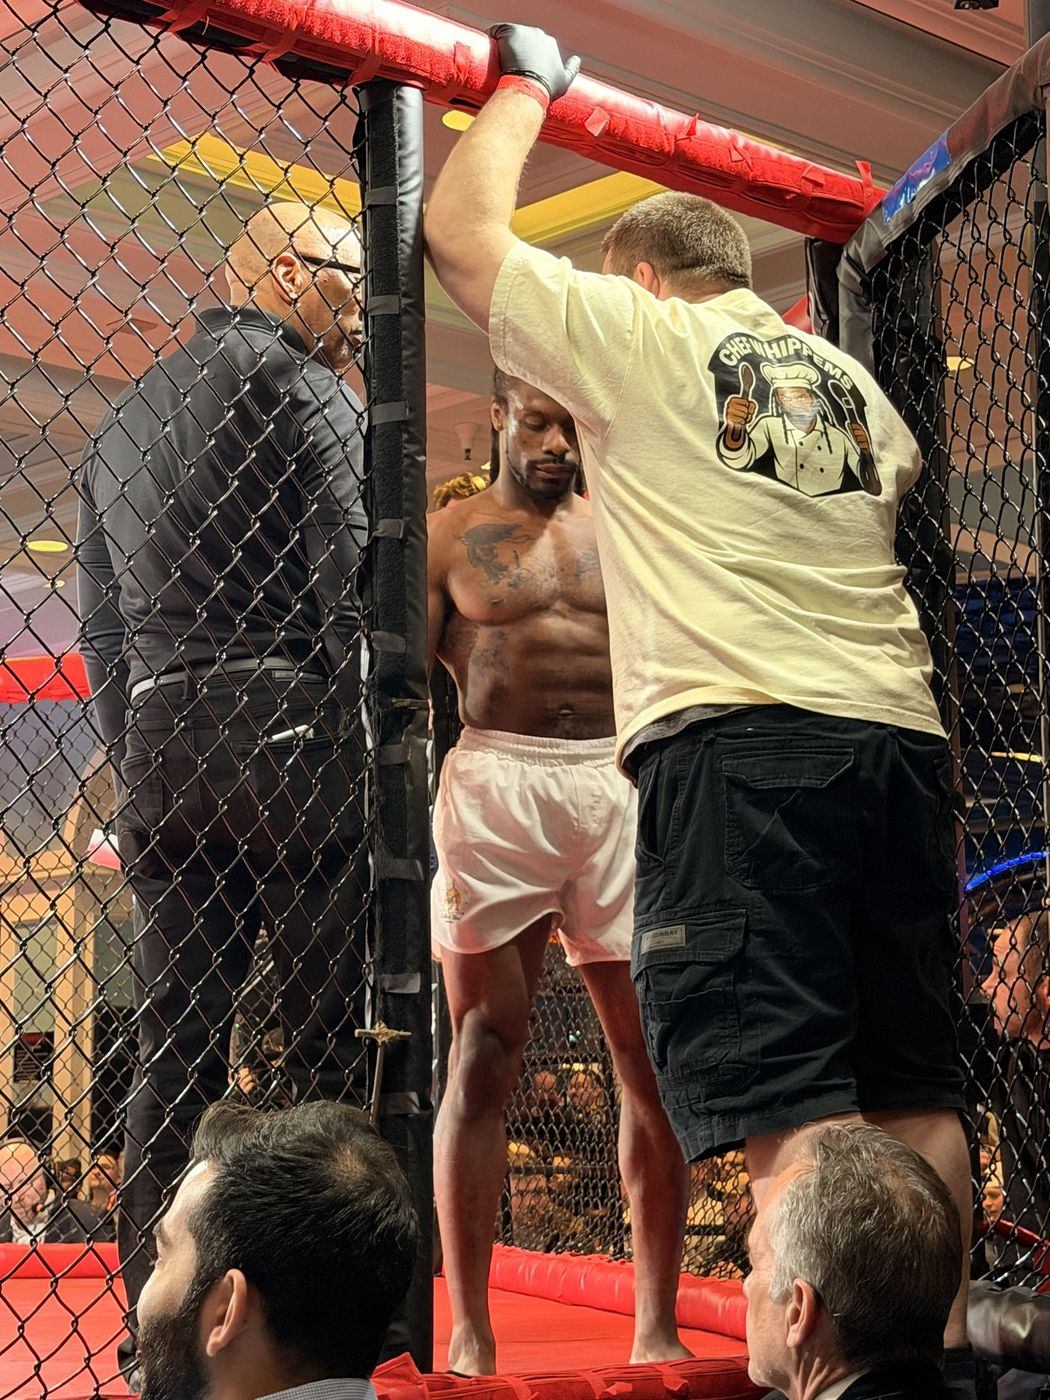
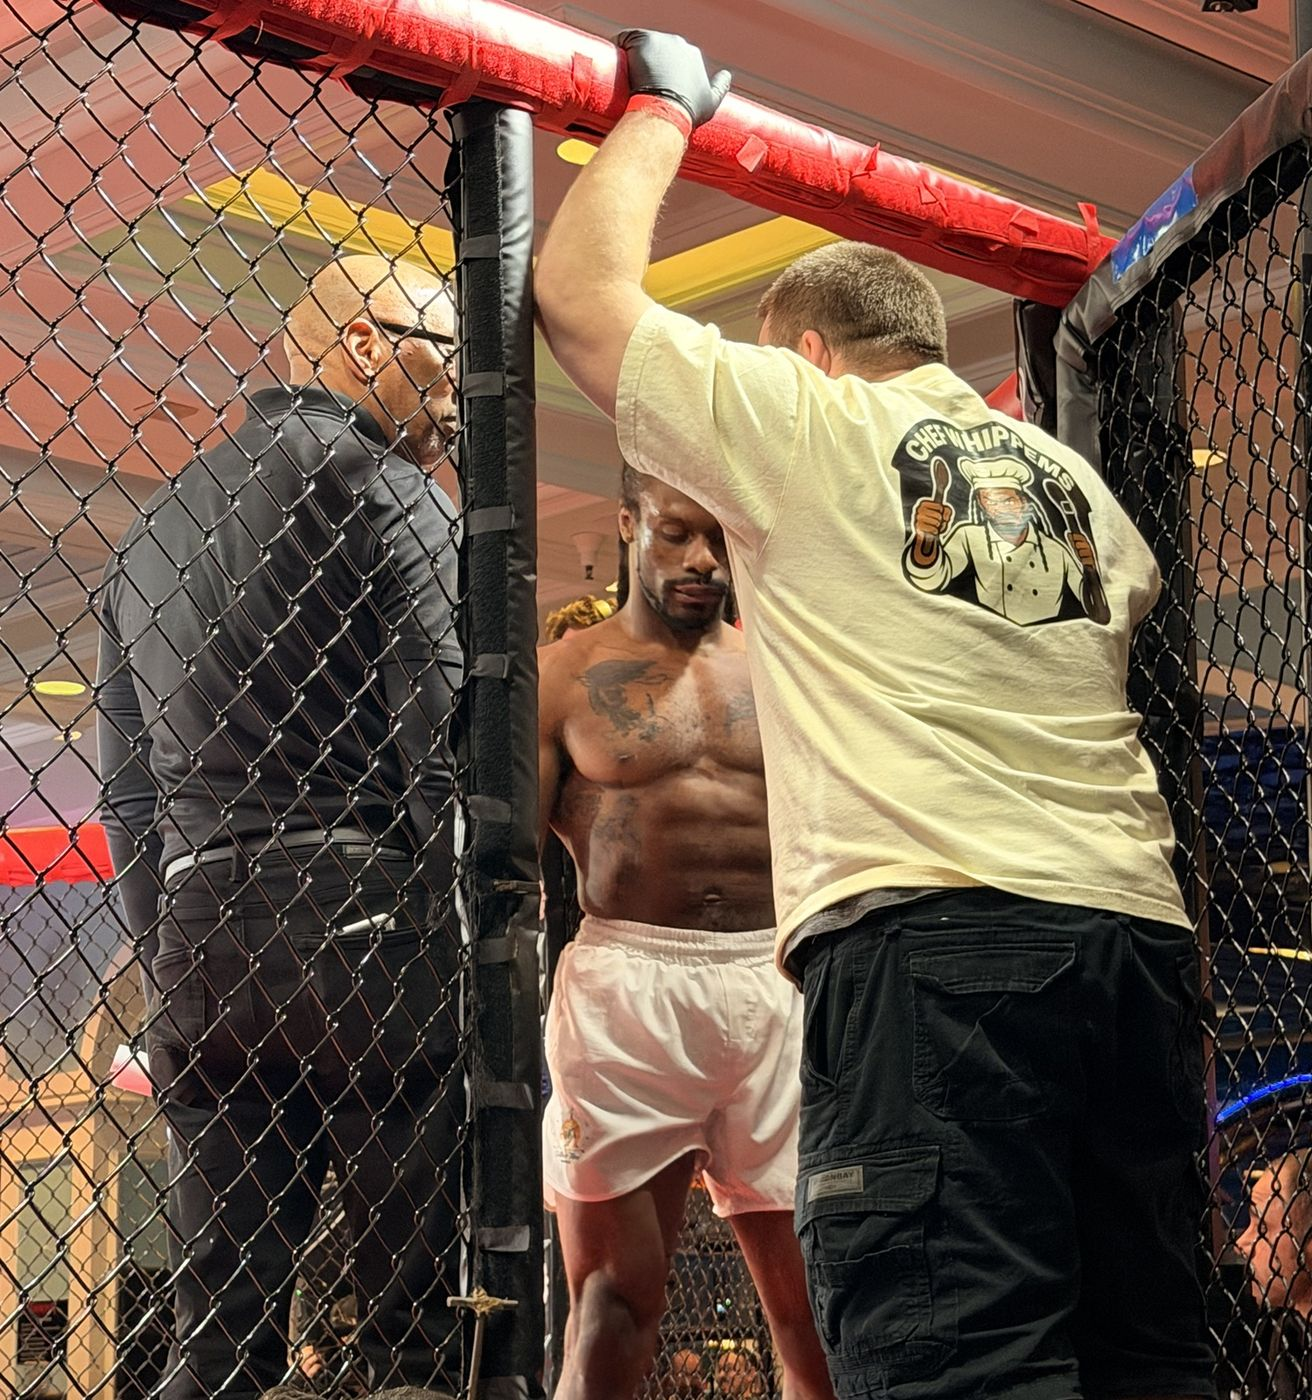
Swap out cluttered photos for cleaner ones
- Removed: training collages, near-duplicate Asbury group shots, the
  near-empty Bayshore BJJ room, the blurry ground shot, a busy mat-edge photo
- Cropped judges' heads out of the cage shots (jab, walkout, corner)
- Home: coaching card uses the portrait; gallery uses the walkout and jab
- Contact header uses the portrait
- Galleries rebalanced so rows fill evenly on desktop and phone

Claude-Session: https://claude.ai/code/session_01AhR64rMRYtrBX3jckZMrQx

diff --git a/fights.html b/fights.html
@@ -90,9 +90,8 @@
           <div class="gallery g3">
             <figure><img src="img/fight/ds67-weighin-faceoff.jpg" alt="Weigh-in face-off at Dead Serious 67" loading="lazy"></figure>
             <figure><img src="img/fight/ds67-poster-signing.jpg" alt="Signing Dead Serious 67 fight posters" loading="lazy"></figure>
+            <figure class="wide"><img src="img/fight/ds67-jab.jpg" alt="Throwing a jab in the cage" loading="lazy"></figure>
             <figure><img src="img/fight/ds67-walkout.jpg" alt="In the cage before the fight" loading="lazy"></figure>
-            <figure><img src="img/fight/ds67-jab.jpg" alt="Throwing a jab in the cage" loading="lazy"></figure>
-            <figure><img src="img/fight/ds67-ground.jpg" alt="Working on the ground in Chef Whippems fight shorts" loading="lazy"></figure>
             <figure><img src="img/fight/ds67-corner-chef-whippems.jpg" alt="Between rounds with the corner, cornerman in a Chef Whippems shirt" loading="lazy"></figure>
           </div>
         </div>
@@ -108,14 +107,12 @@
       </div>
       <div class="gallery reveal">
         <figure class="wide"><img src="img/wrestle-3.jpg" alt="Wrestling match, working from top" loading="lazy"></figure>
-        <figure><img src="img/asbury-1.jpg" alt="Team photo at Asbury Park" loading="lazy"></figure>
-        <figure><img src="img/bayshore-bjj.jpg" alt="Bayshore BJJ mats" loading="lazy"></figure>
-        <figure class="wide"><img src="img/wrestle-5.jpg" alt="Wrestling match, hand fighting in the center" loading="lazy"></figure>
         <figure><img src="img/asbury-3.jpg" alt="Training partners at Asbury Park" loading="lazy"></figure>
-        <figure><img src="img/wrestle-2.jpg" alt="Waiting on the mat edge before a match" loading="lazy"></figure>
         <figure><img src="img/fight/gtg-training-partner.jpg" alt="After training at GTG Gym" loading="lazy"></figure>
+        <figure class="wide"><img src="img/wrestle-5.jpg" alt="Wrestling match, hand fighting in the center" loading="lazy"></figure>
+        <figure class="wide"><img src="img/wrestle-4.jpg" alt="Wrestling match, driving through a takedown" loading="lazy"></figure>
         <figure class="wide"><img src="img/wrestle-1.jpg" alt="Flexing in a wrestling singlet" loading="lazy"></figure>
-        <figure><img src="img/wrestle-6.jpg" alt="Wrestling match, scramble on the mat" loading="lazy"></figure>
+        <figure class="wide"><img src="img/wrestle-6.jpg" alt="Wrestling match, scramble on the mat" loading="lazy"></figure>
       </div>
     </div>
   </section>

diff --git a/index.html b/index.html
@@ -57,7 +57,7 @@
       </div>
       <div class="services reveal">
         <a class="service" href="coaching.html">
-          <img src="img/train-collage-1.jpg" alt="" loading="lazy">
+          <img src="img/portrait.jpg" alt="" loading="lazy" style="object-position:50% 30%">
           <div><span class="eyebrow">Fitness</span><h3 style="font-size:2rem">Online coaching</h3>
             <p>Personalized strength, conditioning and nutrition with weekly check-ins.</p><span class="btn small">See coaching</span></div>
         </a>
@@ -144,10 +144,9 @@
       </div>
       <div class="gallery reveal">
         <figure class="wide"><img src="img/train-floor.jpg" alt="Training on the gym floor" loading="lazy"></figure>
-        <figure><img src="img/train-collage-1.jpg" alt="Gym training sequence" loading="lazy"></figure>
         <figure><img src="img/red-room-1.jpg" alt="Recovery session" loading="lazy"></figure>
         <figure><img src="img/fight/ds67-walkout.jpg" alt="In the cage at Dead Serious 67" loading="lazy"></figure>
-        <figure><img src="img/train-collage-2.jpg" alt="Gym training sequence" loading="lazy"></figure>
+        <figure class="wide"><img src="img/fight/ds67-jab.jpg" alt="Throwing a jab at Dead Serious 67" loading="lazy"></figure>
         <figure class="wide"><img src="img/wrestle-4.jpg" alt="Wrestling match" loading="lazy"></figure>
       </div>
     </div>

diff --git a/assets/site.css b/assets/site.css
@@ -310,3 +310,4 @@ body.locked{overflow:hidden}
 .gallery.g3{grid-template-columns:repeat(3,1fr)}
 @media (max-width:900px){.gallery.g5{grid-template-columns:repeat(3,1fr)}}
 @media (max-width:640px){.gallery.g5,.gallery.g3{grid-template-columns:repeat(2,1fr);gap:8px}.gallery.g5 figure:first-child{grid-column:span 2;aspect-ratio:4/3}}
+@media (max-width:640px){.gallery.g3 figure.wide{grid-column:span 2;aspect-ratio:16/9}}

diff --git a/contact.html b/contact.html
@@ -25,7 +25,7 @@
 
 <main>
   <section class="page-hero">
-    <div class="bg"><img src="img/asbury-2.jpg" alt=""></div>
+    <div class="bg"><img src="img/portrait.jpg" alt=""></div>
     <div class="wrap">
       <span class="eyebrow">Contact</span>
       <h1>Let's talk</h1>
